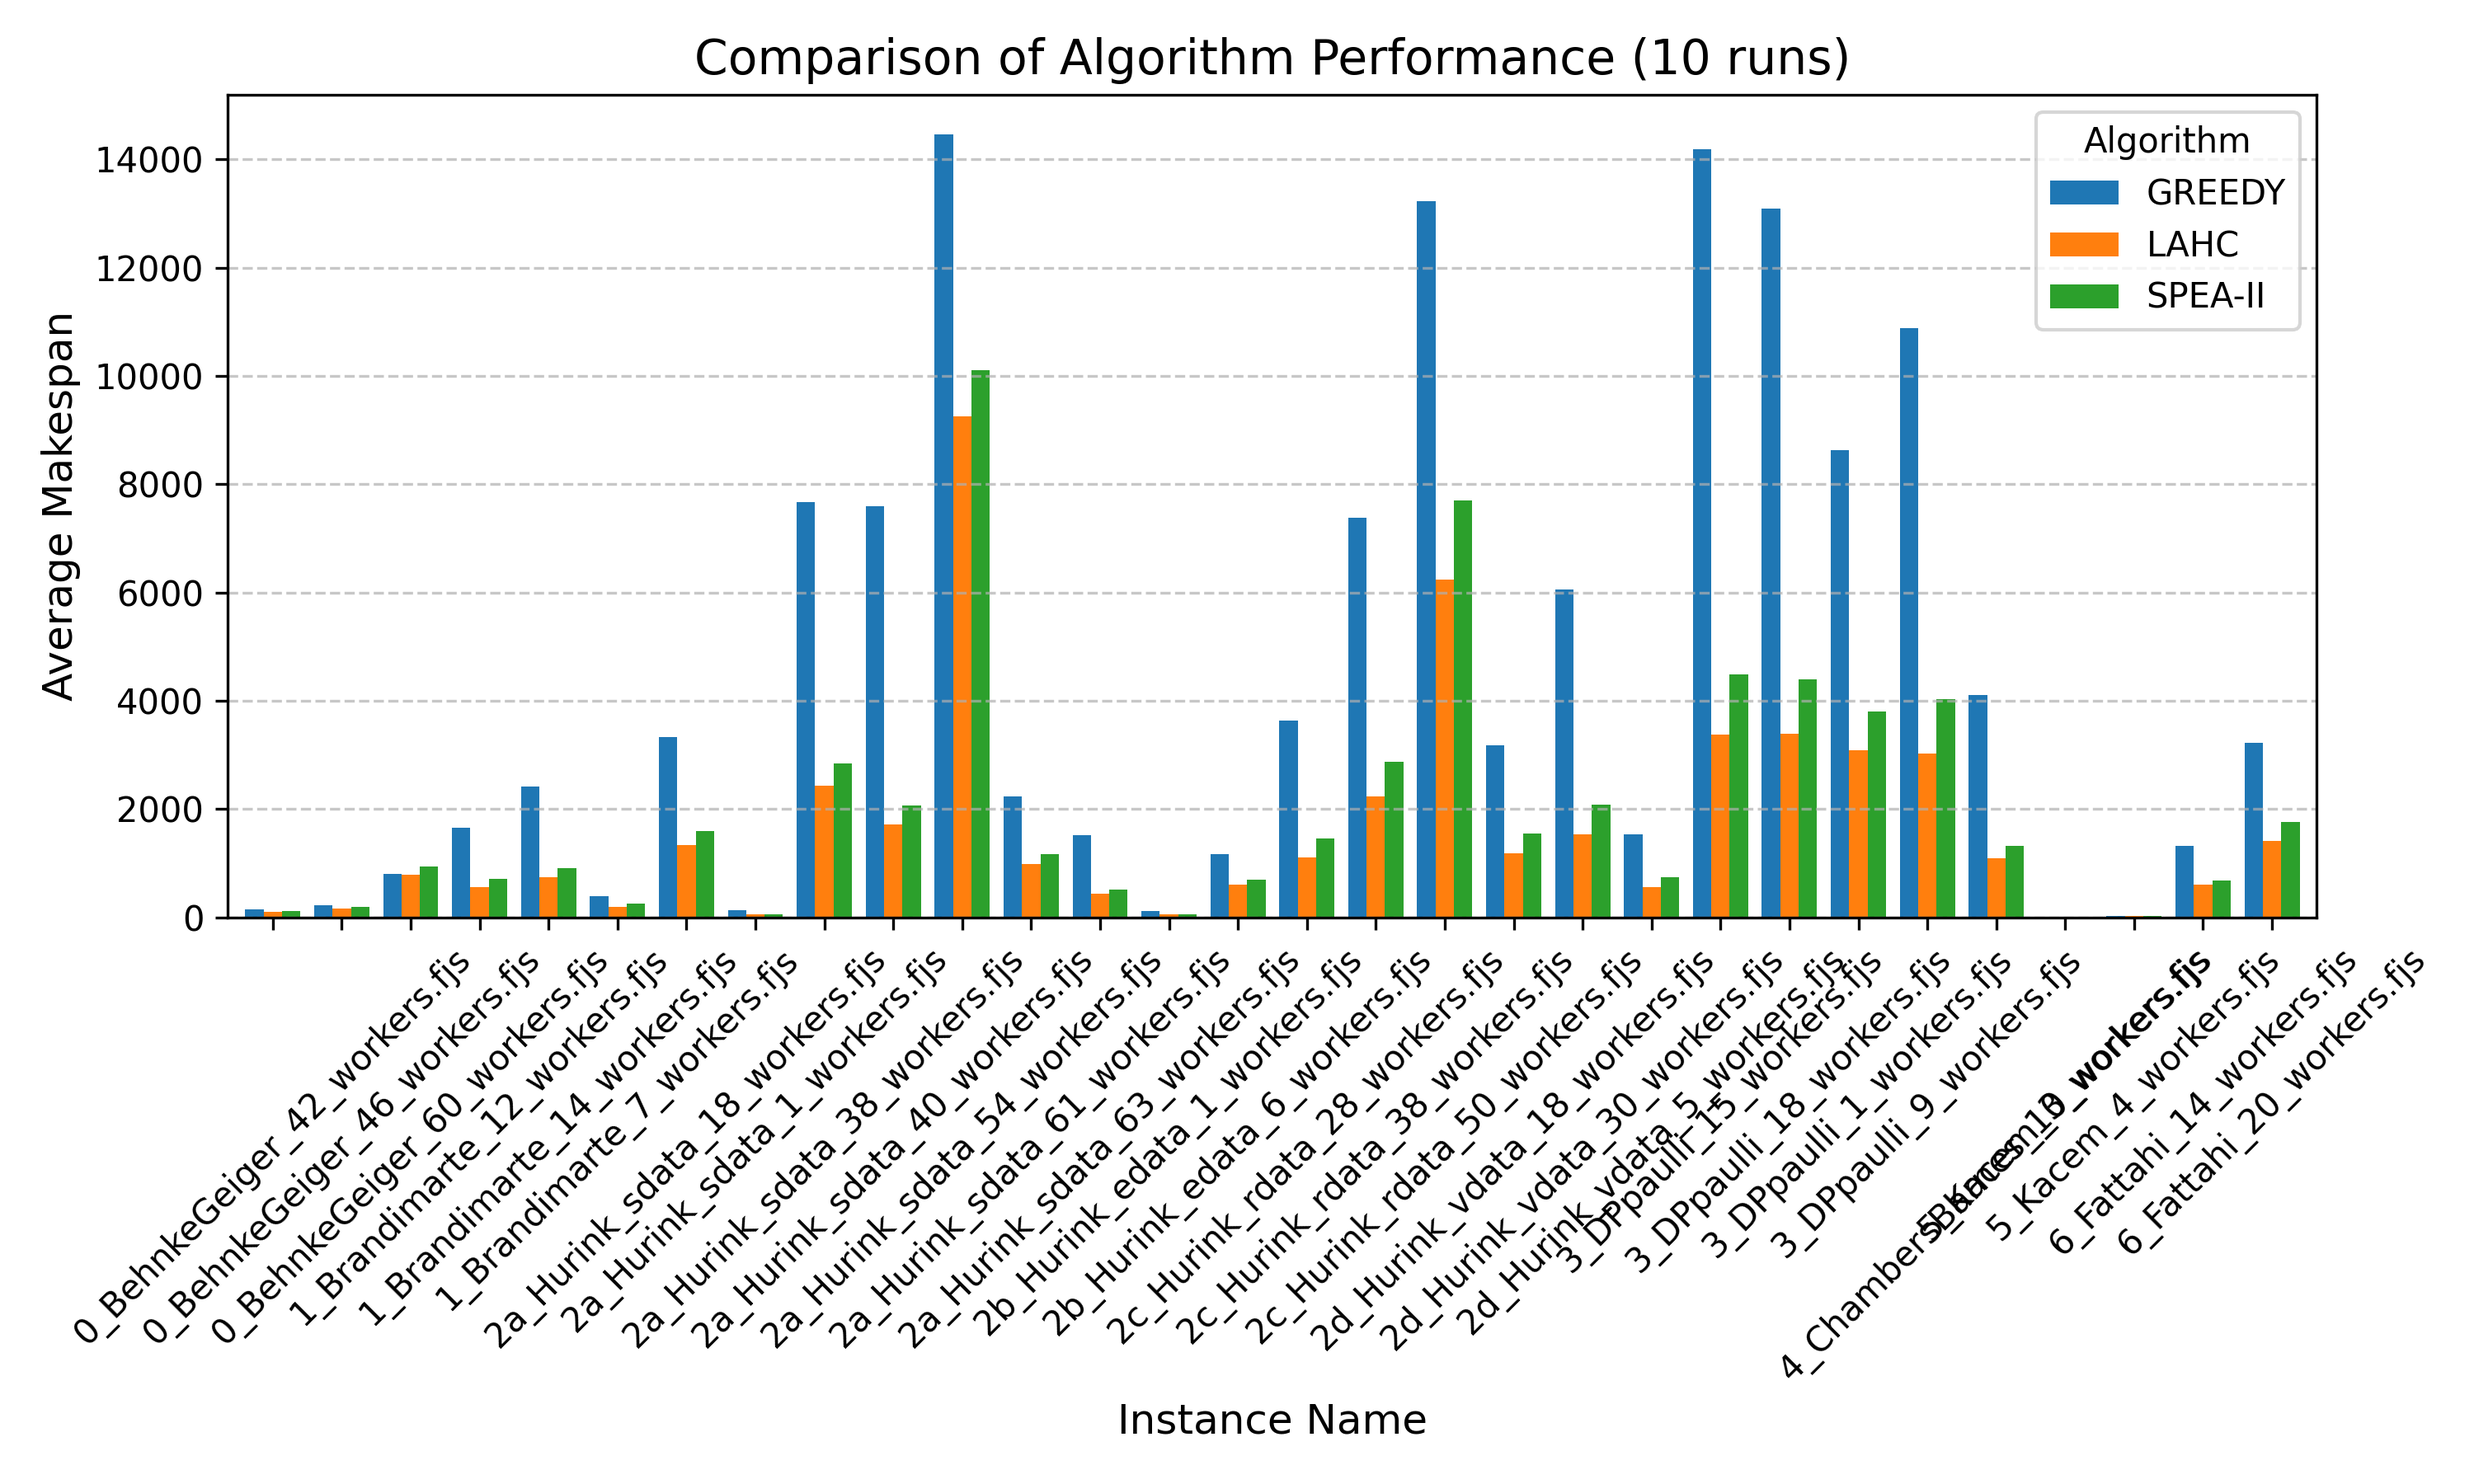
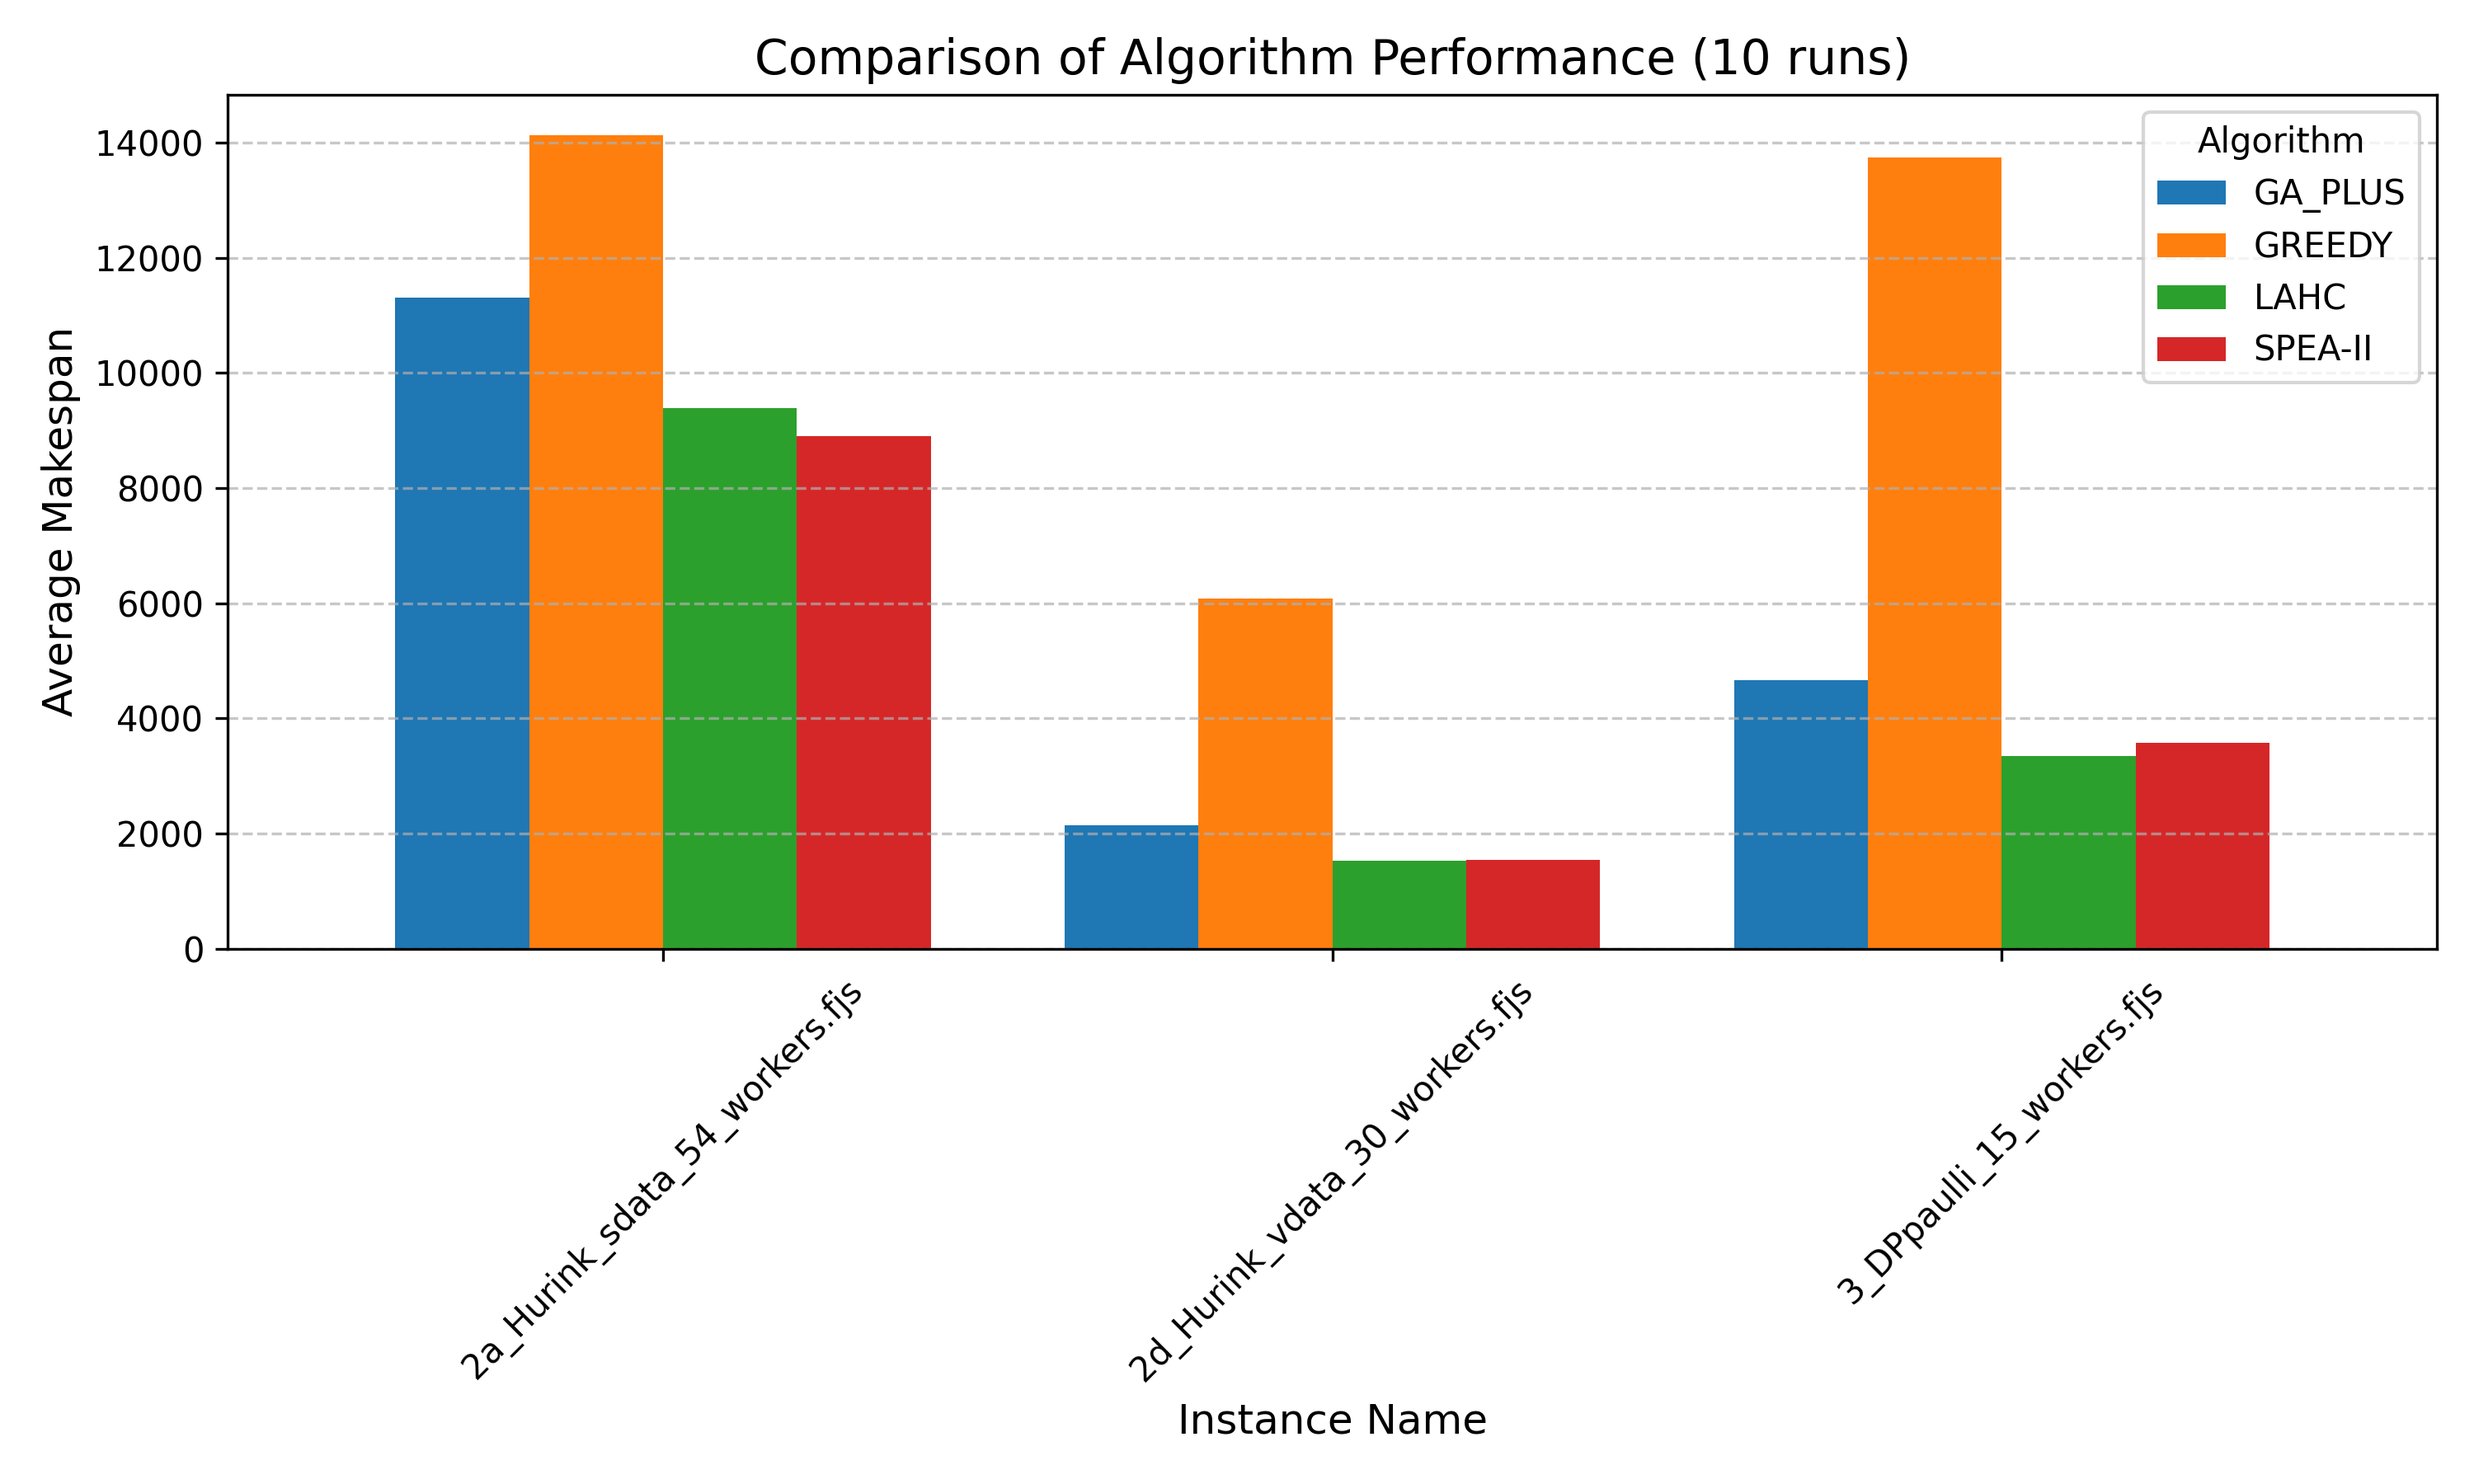
Hyperparameter Optimization for all Algorithms

diff --git a/src/hyperparameter.py b/src/hyperparameter.py
@@ -12,58 +12,82 @@ from src.algorithms.spea import SPEA2Solver
 from src.core.fjssp_algorithm import FJSSPAlgorithm
 from src.util.benchmark_parser import WorkerBenchmarkParser
 from src.algorithms.spea import SPEA2Solver
-
+from enum import Enum
+from src.algorithms.lahc import LAHCSolver
+from src.algorithms.ga import GASolver
+from src.algorithms.ga import Strategy
+import json
 
 instances_dir = "instances/fjssp-w"
 files = [f for f in os.listdir(instances_dir) if f.endswith('.fjs')]
 
 parser=WorkerBenchmarkParser()
 
+class Algorithms(Enum):
+     SPEA2=1
+     LAHC=2
+     GOGETA=3
+     GA=4
+
+     
 TARGET_FILES = [
     "0_BehnkeGeiger_42_workers.fjs",
     "2c_Hurink_rdata_28_workers.fjs",
     "3_DPpaulli_15_workers.fjs"
 ]
-def run_benchmark(self, algorithms: dict[str, "FJSSPAlgorithm"], k: int):
-        """
-        algorithms: A dictionary where key is the name and value is the function 
-                    that takes a filepath and returns (best_candidate, history)
-        """
-        parser = WorkerBenchmarkParser()
-        progress = 0
-        total = len(self.files)
-        for filename in self.files:
-            progress += 1
-            print(f"Running instance {progress}/{total}...")
+def create_objective(algorithm_choice:Algorithms):
+    def objective(trial):
+        if algorithm_choice==Algorithms.SPEA2:
+            population=trial.suggest_int("population_size",150,400)
+            archive=trial.suggest_int("archive_size",50,200)
+            mutation_rate=trial.suggest_float("mutation_rate",0.01,0.2)
+            mut_limit = trial.suggest_int("tracker_limit_mutation", 15, 60, step=5)
+            nuke_limit = trial.suggest_int("tracker_limit_nuke", 60, 150, step=10)
+            solver=SPEA2Solver(pop_size=population,archive_size=archive,max_generations=150,mutation_rate=mutation_rate,mutation_limit=mut_limit,nuke_limit=nuke_limit)
 
-            filepath = os.path.join(self.instances_dir, filename)
-            print(f"\n--- Benchmarking Instance: {filename} ---")
-            
-            for name, algorithm in algorithms.items():
-                print(f"Running {name}...", end=" ", flush=True)
-                
-                avg_candidate_makespan = 0
-                for _ in range(k):
-                    encoding = parser.parse_benchmark(filepath)
-                    best_candidate, _ = algorithm.solve(encoding)
-                    avg_candidate_makespan += best_candidate.makespan / k
+        elif algorithm_choice==Algorithms.LAHC:
+            L=trial.suggest_int("L",10,500)
+            max_iters=trial.suggest_int("Max_iterations",5000,50000,log=True)
+            solver=LAHCSolver(L=L,max_iters=max_iters)
 
-            return avg_candidate_makespan
-        
-def objective(trial):
-     population=trial.suggest_int("population_size",150,400)
-     archive=trial.suggest_int("archive_size",50,200)
-     mutation_rate=trial.suggest_float("mutation_rate",0.01,0.2)
-     results=[]
-     solver=SPEA2Solver(pop_size=population,archive_size=archive,max_generations=100,mutation_rate=mutation_rate)
-     for file in TARGET_FILES:
-            filepath = os.path.join(instances_dir, file)
-            encoding = parser.parse_benchmark(filepath)
-            best_candidate,_=solver.solve(encoding)
-            results.append(best_candidate.makespan / encoding.n_operations())
-     return sum(results) / len(results)
+        elif algorithm_choice==Algorithms.GA:
+            strategy = trial.suggest_categorical("strategy",[Strategy.PLUS, Strategy.COMMA])
+            M = trial.suggest_int("M",10,50)
+            L = trial.suggest_int("L",50,200)
+            solver= GASolver(strategy=strategy,M=M,L=L,max_generations=500)
+             
+        results=[]
+        for file in TARGET_FILES:
+                filepath = os.path.join(instances_dir, file)
+                encoding = parser.parse_benchmark(filepath)
+                best_candidate,_=solver.solve(encoding)
+                results.append(best_candidate.makespan / encoding.n_operations())
+        return sum(results) / len(results)
+    return objective
 
-study = optuna.create_study(direction="minimize")
-study.optimize(objective, n_trials=25)
-print(f"Best params: {study.best_params}")
+if __name__ == "__main__":
+    MY_CHOICE = Algorithms.GA
+    
+    study = optuna.create_study(direction="minimize")
+    
+    func = create_objective(MY_CHOICE)
+    
+    study.optimize(func, n_trials=50)
+    
+    print(f"Best params for {MY_CHOICE.name}: {study.best_params}")
+
+    output_data = {
+        "algorithm": MY_CHOICE.name,
+        "best_value": study.best_value,
+        "best_params": study.best_params
+    }
+    if "strategy" in output_data["best_params"]:
+        output_data["best_params"]["strategy"] = str(output_data["best_params"]["strategy"])
+
+    filename = f"best_params_{MY_CHOICE.name.lower()}.json"
+
+    with open(filename, "w") as f:
+        json.dump(output_data, f, indent=4)
+
+    print(f"Parameters successfully saved to {filename}")
                 

diff --git a/src/benchmarker.py b/src/benchmarker.py
@@ -22,7 +22,7 @@ class BenchmarkRunner:
         self.files = [f for f in os.listdir(instances_dir) if f.endswith('.fjs')]
         self.results = []
 
-    def run_benchmark(self, algorithms: dict[str, "FJSSPAlgorithm"], k: int):
+    def run_benchmark(self, algorithms: dict[str, "FJSSPAlgorithm"], k: int,filter_list: list[str] = None):
         """
         algorithms: A dictionary where key is the name and value is the function 
                     that takes a filepath and returns (best_candidate, history)
@@ -31,6 +31,8 @@ class BenchmarkRunner:
         progress = 0
         total = len(self.files)
         for filename in self.files:
+            if filter_list and filename not in filter_list:
+                continue
             progress += 1
             print(f"Running instance {progress}/{total}...")
 
@@ -75,13 +77,14 @@ def main() -> None:
     runner = BenchmarkRunner("instances/fjssp-w")
 
     algorithms: dict[str, FJSSPAlgorithm] = {
-        #"LAHC": LAHCSolver(L=50, max_iters=10_000),
-        #"GA_PLUS": GASolver(Strategy=Strategy.PLUS, M=10, L=50, max_generations=100),
-        #"GREEDY": GreedyFJSSPWSolver(),
-        "SPEA-II": SPEA2Solver()
+        "LAHC": LAHCSolver(L=50, max_iters=10_000),
+        "GA_PLUS": GASolver(Strategy=Strategy.PLUS, M=10, L=50, max_generations=100),
+        "GREEDY": GreedyFJSSPWSolver(),
+        "SPEA-II": SPEA2Solver(pop_size=315,archive_size=128,max_generations=500,mutation_rate=0.02828977853657342,mutation_limit=55,nuke_limit=80)
     }
 
-    runner.run_benchmark(algorithms, k=K)
+    target = ["2d_Hurink_vdata_30_workers.fjs", "2a_Hurink_sdata_54_workers.fjs", "3_DPpaulli_15_workers.fjs"]
+    runner.run_benchmark(algorithms, k=K, filter_list=target)
     
     summary_df = runner.get_summary()
     print("\nFinal Comparison:")

diff --git a/src/algorithms/spea.py b/src/algorithms/spea.py
@@ -8,11 +8,13 @@ from math import sqrt
 import optuna
 
 class SPEA2Solver(FJSSPAlgorithm):
-    def __init__(self, pop_size=200, archive_size=50, max_generations=500,mutation_rate=0.1):
+    def __init__(self, pop_size=200, archive_size=50, max_generations=500,mutation_rate=0.1,mutation_limit=50,nuke_limit=150):
         self.pop_size = pop_size
         self.archive_size = archive_size
         self.max_generations = max_generations
         self.base_mutation = mutation_rate
+        self.nuke_limit=nuke_limit
+        self.mutation_limit=mutation_limit
 
     def solve(self, encoding: WorkerEncoding) -> tuple[Candidate, list]:
         all_options = Instance.create_options(encoding)
@@ -40,19 +42,19 @@ class SPEA2Solver(FJSSPAlgorithm):
             else:
                 tracker += 1
 
-            if tracker > 150:
+            if tracker > self.nuke_limit:
                 archive = [min(archive, key=lambda x: x.makespan)]
                 population = [Instance(encoding, all_options) for _ in range(self.pop_size)]
                 for ind in population:
                     ind.makespan, ind.worker_balance_fitness = calculate_fitness(ind)
                 tracker = 0
                 current_mutation = self.base_mutation
-            elif tracker > 50:
+            elif tracker > self.mutation_limit:
                 current_mutation = 0.6
             else:
                 current_mutation = self.base_mutation
 
-            is_stuck = tracker > 50
+            is_stuck = tracker > self.mutation_limit
             population = binary_tournament(archive, self.pop_size, current_mutation, is_stuck)
 
         best_instance = min(archive, key=lambda x: x.makespan)

diff --git a/src/algorithms/aspea.py b/src/algorithms/aspea.py
@@ -38,10 +38,10 @@ class Instance:
     def create_options(encoding: WorkerEncoding):
         options_map = {}
         n_ops = encoding.n_operations()
-        
+        machines=encoding.get_all_machines_for_all_operations()
         for op_idx in range(n_ops):
             valid_pairs = []
-            usable_machines = encoding.get_machines_for_operation(op_idx)
+            usable_machines = machines[op_idx]
             
             for m_idx in usable_machines:
                 usable_workers = encoding.get_workers_for_operation_on_machine(op_idx, m_idx)
